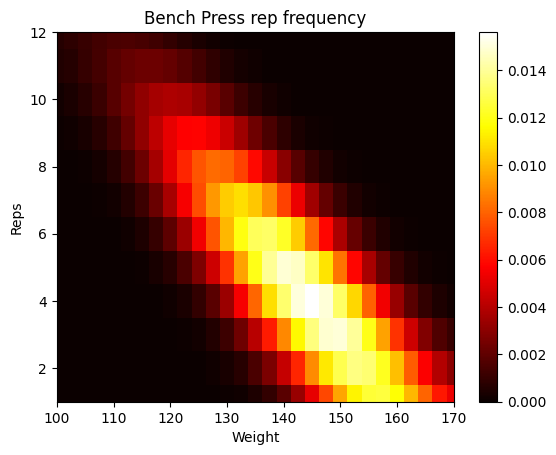
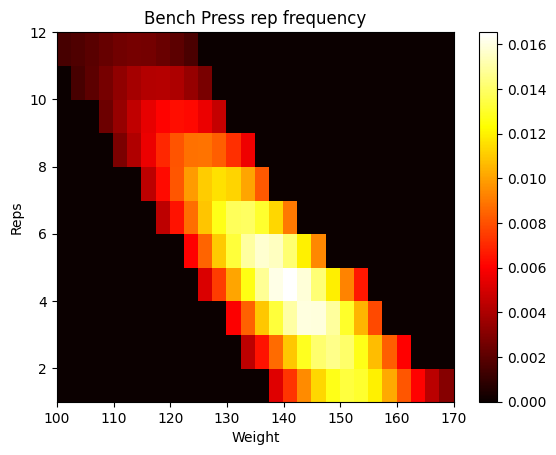
updated upper limit to incorpotare observations > estimator

diff --git a/src/log.py b/src/log.py
@@ -95,7 +95,8 @@ def fit_estimator(cfg, recorded_sets, weights, reps, cost = "mse"):
         if np.sum(recorded_sets[i]) == 0:
             maxes[i] = np.nan
         else:
-            maxes[i] = weights[np.argmax(recorded_sets[i])]
+            max_weight_idx = np.where(recorded_sets[i] != 0)[0].max()
+            maxes[i] = weights[max_weight_idx]
 
     estimator_loss = {estimator: 0 for estimator in config.ONE_REP_MAX.keys()}
     for estimator in estimator_loss.keys():
@@ -105,7 +106,6 @@ def fit_estimator(cfg, recorded_sets, weights, reps, cost = "mse"):
             if np.isnan(max):
                 continue
             estimator_loss[estimator] += cost_func(max, estimated_rep_maxes[i])
-
     return min(estimator_loss, key=estimator_loss.get)
 
 
@@ -123,6 +123,23 @@ def crop(mesh, weight_ax, lower_limit = None, upper_limit = None):
         mesh[row,:][weight_ax > max] = 0
         mesh[row,:][weight_ax <= min] = 0 # Remove junk volume
     return mesh
+
+
+def get_upper_limit(mesh, weight_ax, upper_limit):
+    updated_limit = np.zeros_like(upper_limit)
+    for i, (r_rm, obs) in enumerate(zip(upper_limit, mesh)): # Ascending
+        if not obs.any():
+            new_max = r_rm
+        else:
+            max_weight_idx = np.where(obs != 0)[0].max()
+            new_max = max(weight_ax[max_weight_idx], r_rm)
+
+        if (updated_limit[:i] < new_max).any():
+            # If new r-RM max is higher than any (l < r) l-RM, increase l-RM to r-RM.
+            updated_limit[:i][updated_limit[:i] < new_max] = new_max
+
+        updated_limit[i] = new_max
+    return updated_limit
 
 
 def count_instances(df, weight, rep, rpe=None, r_max=None):
@@ -228,9 +245,18 @@ def extract_meshgrid(exercise, exercise_df, cfg, filter=None, return_df = False,
 
     zs = np.zeros((ys.shape[0], xs.shape[1]))
     
+    # Find the optimal 1RM estimator
     if cfg.optimal_estimator is None:
         estimator_string = fit_estimator(cfg, recorded_sets, xs[0,:], ys[:,0], cost = "mse")
         setattr(cfg, "optimal_estimator", estimator_string)
+
+    upper_limit = get_upper_limit(
+        recorded_sets,
+        xs[0,:],
+        cfg.get_rep_max(
+            cfg.one_rm, ys[:,0], rep_max_estimator = cfg.get_estimator(cfg.optimal_estimator, inverse = True)
+        )
+    )
 
 
     # Add a buffer and remove points below lower threshold
@@ -239,7 +265,7 @@ def extract_meshgrid(exercise, exercise_df, cfg, filter=None, return_df = False,
         weight_ax = xs[0,:],
         buffer = cfg.buffer * exercise_counts.iloc[0],
         lower_limit = cfg.get_rep_max(cfg.one_rm_low_cap * cfg.one_rm, ys[:,0], rep_max_estimator = inverse_brzycki),
-        upper_limit = cfg.get_rep_max(cfg.one_rm, ys[:,0], rep_max_estimator = cfg.get_estimator(cfg.optimal_estimator, inverse = True)),
+        upper_limit = upper_limit,
         return_mask = True
     )
 
@@ -259,10 +285,11 @@ def extract_meshgrid(exercise, exercise_df, cfg, filter=None, return_df = False,
         zs,
         xs[0,:],
         lower_limit = cfg.get_rep_max(cfg.one_rm_low_cap * cfg.one_rm, ys[:,0], rep_max_estimator = inverse_brzycki),
-        upper_limit = cfg.get_rep_max(cfg.one_rm, ys[:,0], rep_max_estimator = cfg.get_estimator(cfg.optimal_estimator, inverse = True)),
+        upper_limit = upper_limit,
 
     )
 
+    zs = zs / zs.sum()
     if not return_df:
         return xs, ys, zs
     else:
